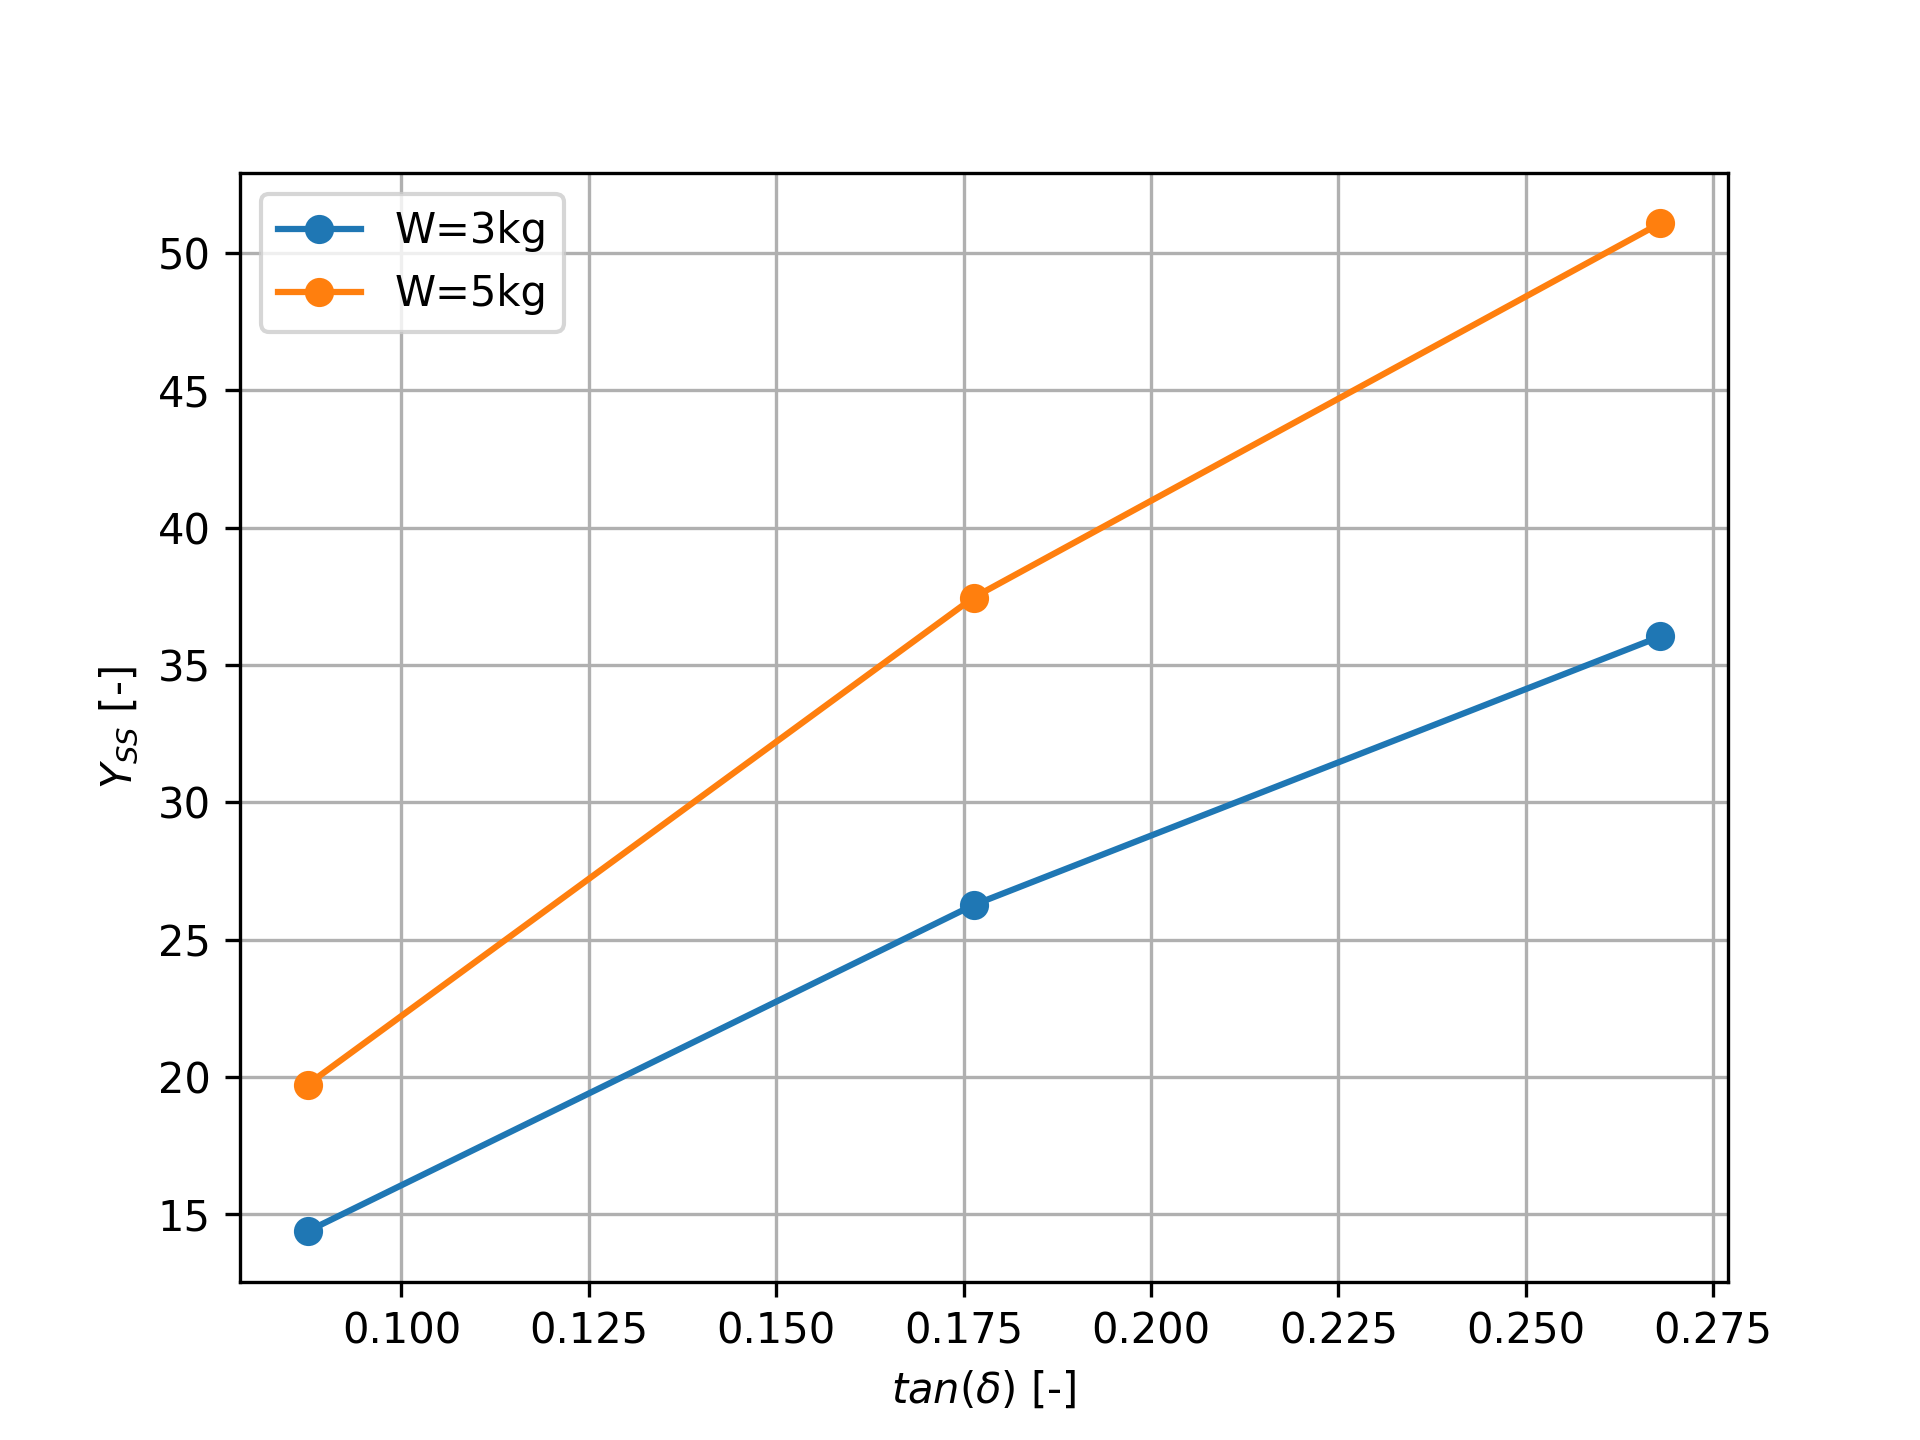
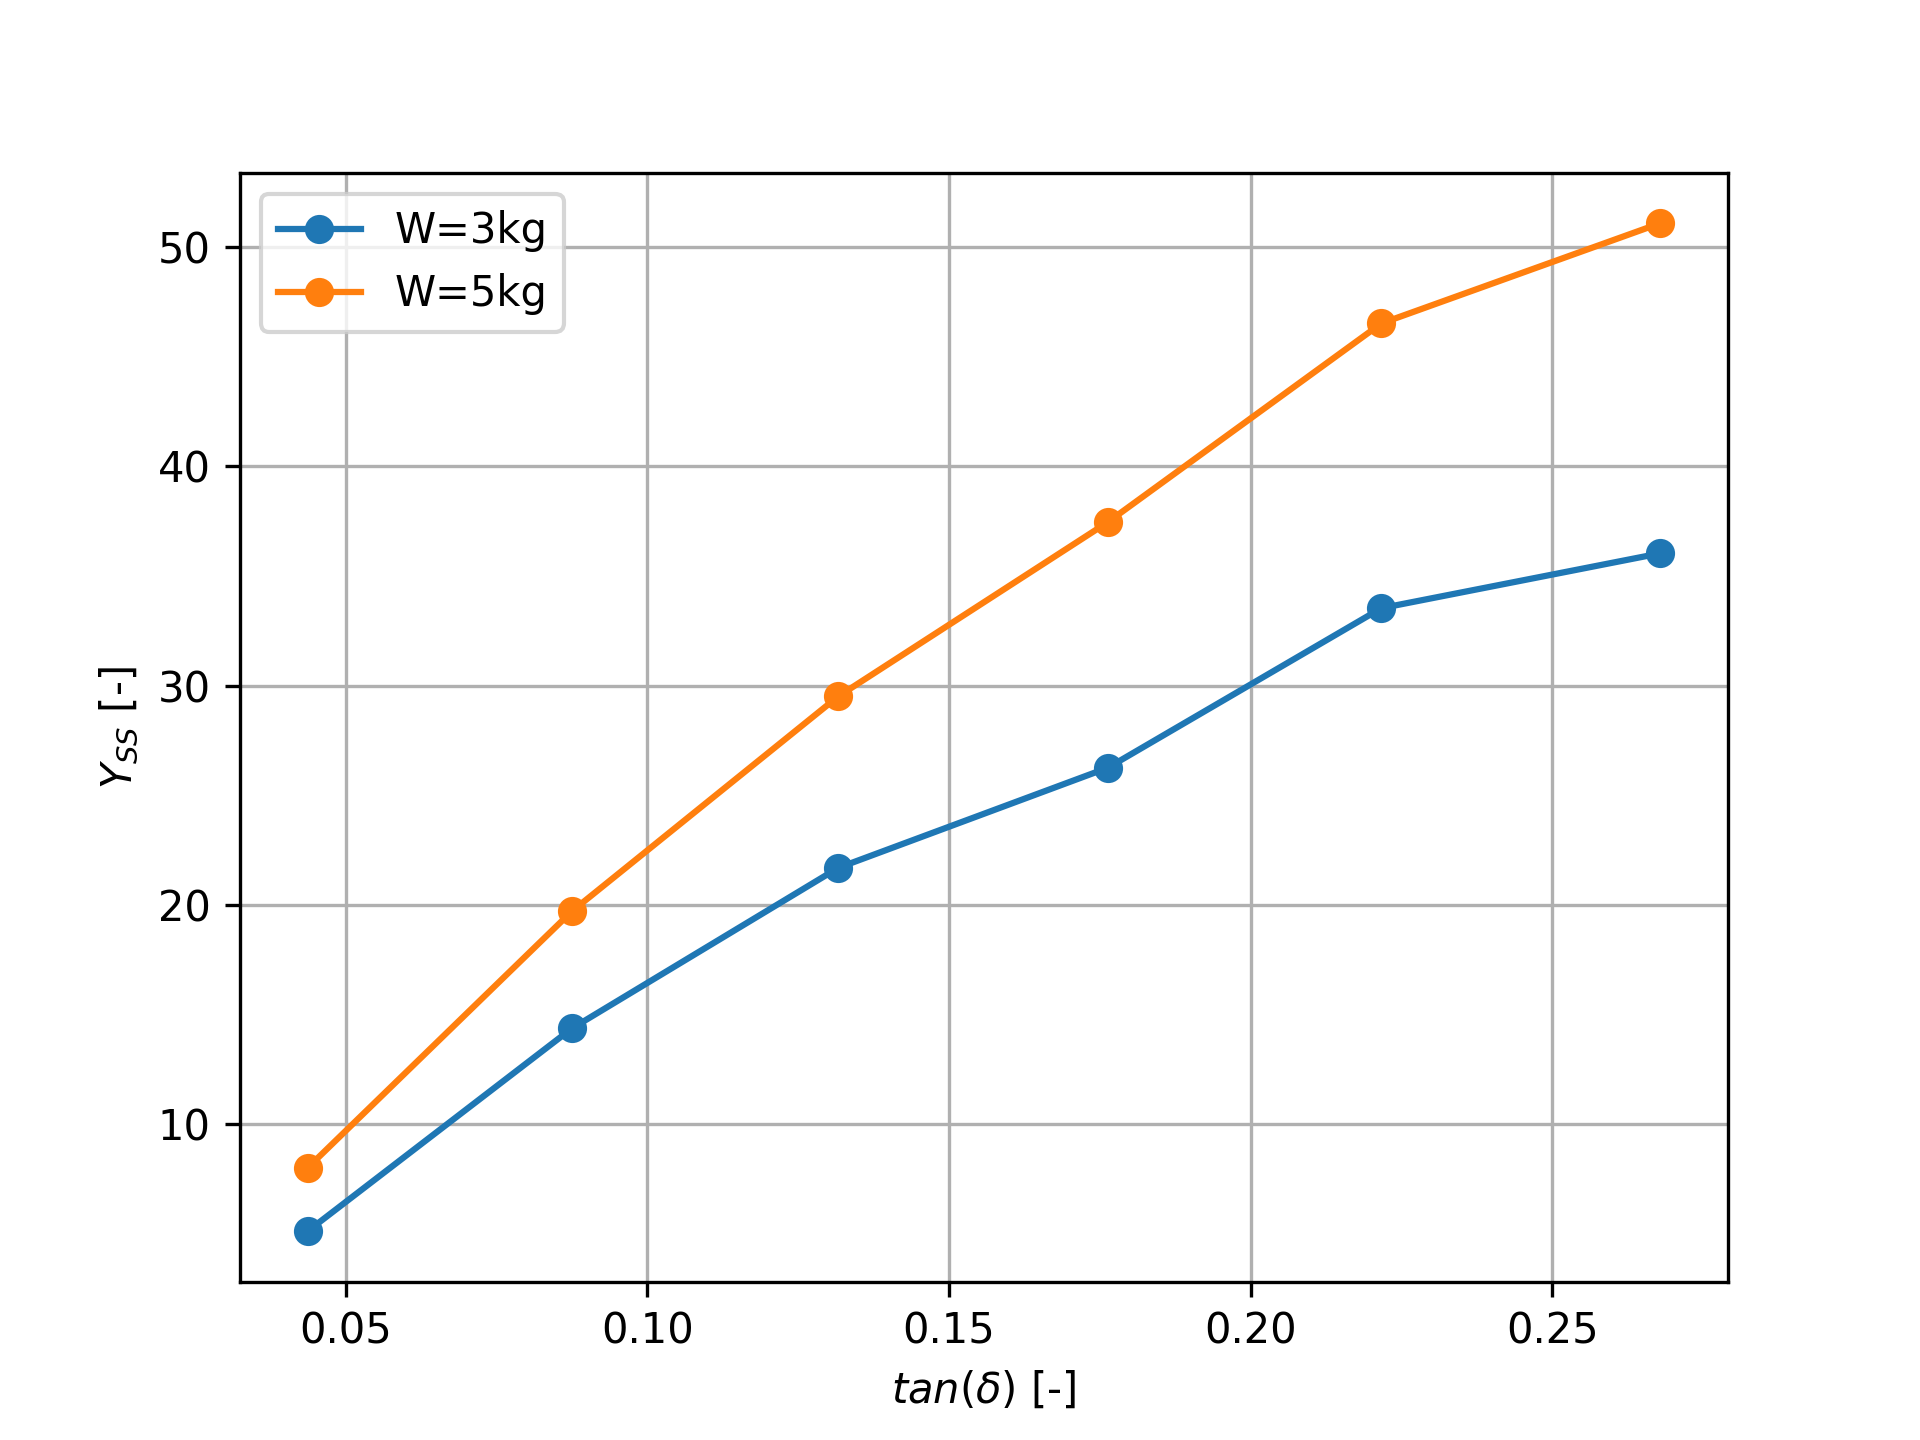
4C8 work

diff --git a/IIB/4C8/4.3/graf.py b/IIB/4C8/4.3/graf.py
@@ -56,6 +56,24 @@ fig, ax = plt.subplots()
 
 tandels = np.tan(np.deg2rad(dels))
 
+# 2nd batch of collected data
+second_batch = np.loadtxt('IIB/4C8/lateral.csv', delimiter=',', skiprows=1)
+sbatc3 = second_batch[:16, :]
+sbatc5 = second_batch[16:, :]
+extra_dels = np.array([2.5, 7.5, 12.5])
+extra_tandels = np.tan(np.deg2rad(extra_dels))
+extra_Y_ss3 = np.interp(extra_tandels, np.abs(sbatc3[:,3]), sbatc3[:,7])
+extra_Y_ss5 = np.interp(extra_tandels, np.abs(sbatc5[:,3]), sbatc5[:,7])
+# augment the data
+tandels = np.concatenate((tandels, extra_tandels))
+i_Y_ss = np.concatenate((i_Y_ss, extra_Y_ss3))
+iii_Y_ss = np.concatenate((iii_Y_ss, extra_Y_ss5))
+# sort by tan(delta)
+sort_idx = np.argsort(tandels)
+tandels = tandels[sort_idx]
+i_Y_ss = i_Y_ss[sort_idx]
+iii_Y_ss = iii_Y_ss[sort_idx]
+
 ax.plot(tandels, i_Y_ss, 'o-', label='W=3kg')
 ax.plot(tandels, iii_Y_ss, 'o-', label='W=5kg')
 ax.grid()
